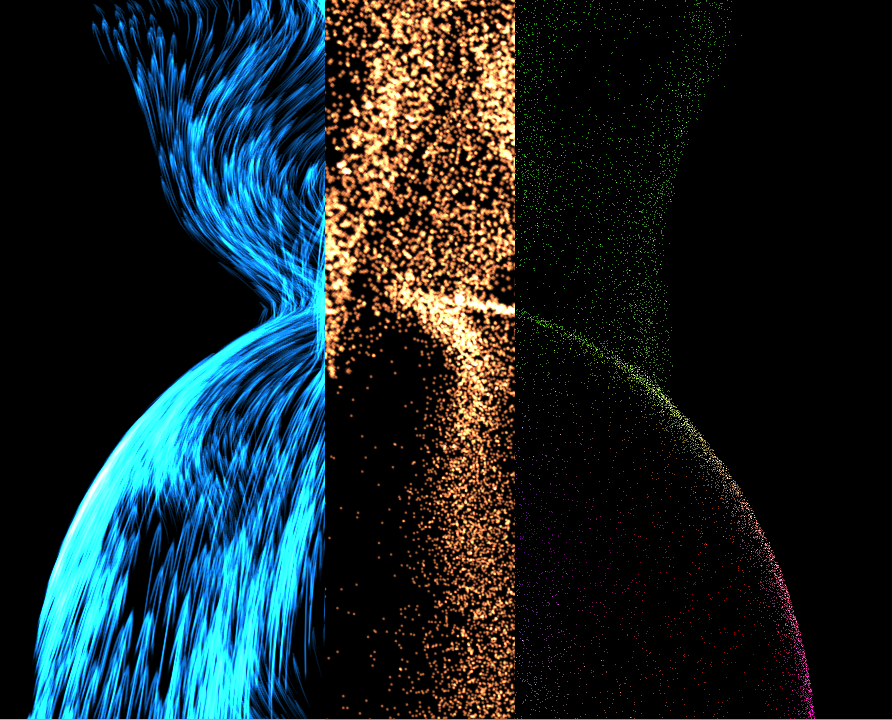
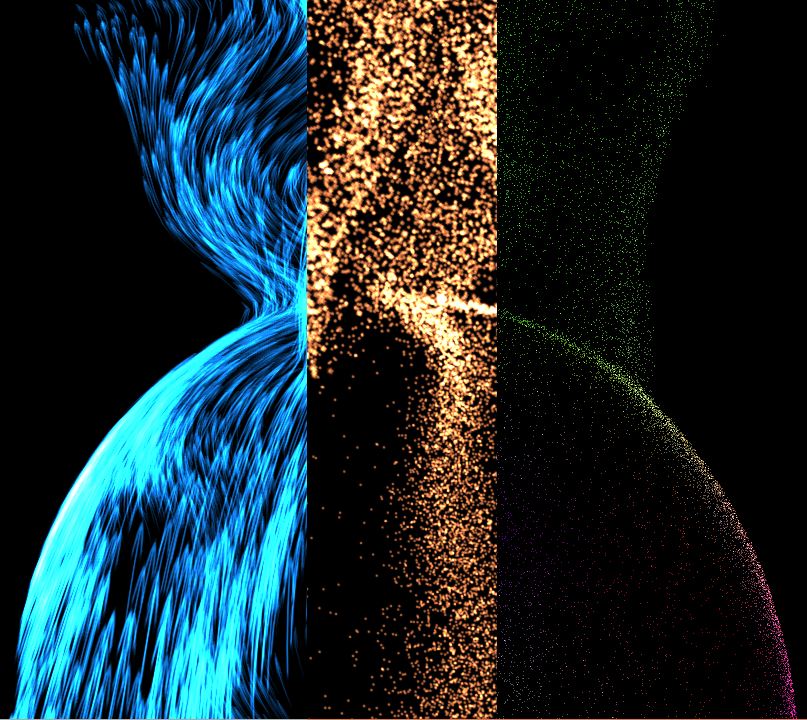
Made figures smaller and added more section.

diff --git a/docs/cnpf.tex b/docs/cnpf.tex
@@ -96,11 +96,27 @@ labelfont=bf,singlelinecheck=off,labelsep=space}
 
     I korthet kan man säga att vi producerar tre olika vektorfält som vi kombinerar. De första två fälten representerar turbulensen och den allmänna riktningen som partiklarna ska följa. Dessa kombineras genom att adderas. Efter detta modifieras resultatfältet så att partiklarna åker runt solida kroppar och slutligen applicerar vi en rotationsoperation (curl) vilket resulterar i ett divergensfritt vektorfält.
 
+\begin{figure}[H]
+\begin{minipage}[]{0.5\textwidth}
+\center
+\includegraphics[width=0.48\textwidth]{share/Background_downscale.png}
+\includegraphics[width=0.48\textwidth]{share/Noise_downscale.png}
+
+\vspace{0.1cm}
+
+\includegraphics[width=0.48\textwidth]{share/Alpha_downscale.png}
+\includegraphics[width=0.48\textwidth]{share/Curl_downscale.png}
+\end{minipage}
+    \caption{$xy$-plan genomskärningar av  a) \emph{turbulensfältet} b) \emph{bakgrundsfältet} c) \emph{rampfunktionen} d) \emph{riktningsfältet}. (i den ordningen som visas: vänster$\rightarrow$höger, upp$\rightarrow$ner)}
+\label{fig:curlnoise}
+\end{figure}
+
+\vspace{-0.3cm}
     \textbf{Turbulensfältet}
 
-    Turbulensfältet beräknas genom att sampla en procedurell brusfunktion. Vi valde att använda \textit{Simplex noise}\footnote{\url{https://github.com/stegu/perlin-noise/blob/master/src/simplexnoise1234.c}} vilket förklaras i närmare detalj av S. Gustavsson\cite{gustavson2005simplex}. Brusfunktionen samplas runt varje partikels position enligt följande funktion.
+    Turbulensfältet beräknas genom att sampla en procedurell brusfunktion. Vi valde att använda \textit{Simplex noise}\footnote{\url{https://github.com/stegu/perlin-noise/blob/master/src/simplexnoise1234.c}} vilket förklaras i detalj av \emph{Stefan Gustavsson}~\cite{gustavson2005simplex}. Brusfunktionen samplas runt varje partikels position enligt följande funktion.
     \begin{equation}
-   \vec{N}(\vec{x}) =  
+   \vec{N}(\vec{x}) =
         \begin{pmatrix}
         n((\vec{x} + \vec{\epsilon}_x)/L)
         \\
@@ -114,13 +130,6 @@ labelfont=bf,singlelinecheck=off,labelsep=space}
 0 & 8 & 0\\ 
 0 & 0 & 8
 \end{pmatrix}$. $n(\vec{x})$ är brusfunktionen som samplas för att producera turbulens i fältet. $\gamma$ representerar förhållande mellan brus och bakgrundsfält där $0$ är inget brus och därmed ingen turbulens medan $1$ är fullt brus utan något bakgrundsfält. $M_n$ är styrkan på bruset (fältriktningen är normerad så vi skalar upp det till vad vi vill ha). $L$ är längdskalan på bruset vilket i vårat fall är relativt stor (20-100) då vi vill ha långa övergångar i bruset.
-\begin{figure}[H]
-\center
-\begin{minipage}[]{0.3\textwidth}
-\includegraphics[width=\textwidth]{share/Noise_downscale.png}
-\caption{Genomskärning av turbulensfältet.}
-\end{minipage}
-\end{figure}
 
 \textbf{Bakgrundsriktningen}
 
@@ -134,13 +143,6 @@ $ \vec{D}(\vec{x})$ representerar fältriktningen i den angivna punkten och $M_f
 \end{equation}
 Där $\vec{p}$ är fältriktningen vi vill att partiklarna ska följa.
 
-\begin{figure}[H]
-\center
-\begin{minipage}[]{0.3\textwidth}
-\includegraphics[width=\textwidth]{share/Background_downscale.png}
-\caption{Genomskärning av bakgrundsfället.}
-\end{minipage}
-\end{figure}
 
 Turbulensfältet adderas med bakgrundsriktningen ($\vec{\psi} = \vec{N}(\vec{x}) + \vec{F}(\vec{x})$) för att sedan justeras så att partiklarna beaktar solida sfärer utplacerade i vektorfältet. 
 
@@ -157,13 +159,6 @@ ramp(r) = \left\{\begin{matrix}
 \end{matrix}\right.
 \end{equation}
 där $r$ är distansen $\vec{x}$ till närmaste sfär delat på distansen av sfären inflytande. 
-\begin{figure}[H]
-\center
-\begin{minipage}[]{0.3\textwidth}
-\includegraphics[width=\textwidth]{share/Alpha_downscale.png}
-\caption{Genomskärning av ramp funktionen mot en sfärisk solid kropp.}
-\end{minipage}
-\end{figure}
 
 Resultatet från rampfunktionen som $\alpha = | ramp(d(\vec{x})/d_0) |$ där $d_0$  är en arbiträr skalfaktor. Slutligen beräknar vi hur fältet runt sfärer se ut genom 
 \begin{equation}
@@ -200,14 +195,7 @@ Slutligen beräknas den slutgiltiga fältriktningen genom att applicera curl ope
 \vec{vx}_z - \vec{vy}_y
 \end{pmatrix} / 0.0002
 \end{equation}
-och normeras så att vi själva kan bestämma vad hastigheten för partiklarna ska vara. En genomskärning i $xy$-planet kan ses i nästa figur.
-\begin{figure}[H]
-\center
-\begin{minipage}[]{0.3\textwidth}
-\includegraphics[width=\textwidth]{share/Curl_downscale.png}
-\caption{Genomskärning av det slutgiltiga riktningsfället.}
-\end{minipage}
-\end{figure}
+och normeras så att vi själva kan bestämma vad hastigheten för partiklarna ska vara. En genomskärning i $xy$-planet av dessa fält kan ses i Figur~\ref{fig:curlnoise}.
 
 \subsection{Partikelrenderaren} \label{sec:partikelrenderaren}
 
@@ -244,9 +232,38 @@ För att enklare kunna visualisera riktningsfältet har vi implementerat \emph{`
 
 \subsection{Övriga funktioner}
 
+\clearpage
+
 \section{Resultat \& diskussion} \label{sec:results}
 
+\begin{figure}[H]
+\center
+\includegraphics[width=0.48\textwidth]{share/merged_shaders.png}
+    \caption{visualisering av \emph{partikelsystemet} med tre olika metoder: \emph{vektorfält-}, \emph{billboard-}, och \emph{punktvisualisering} som drivs av \emph{partikelrenderaren}. Scenariot innehåller en solid sfärisk kropp och med en längdskala på \(L\approx20\).}
+\label{fig:verysexy}
+\end{figure}
+
         \subsection{Problem samt lösningar}
+
+            \textbf{``Svarta hål'' av ej divergens-frihet}
+
+            % ...
+
+            \textbf{Interpoleringsfel av CPU Simplex}
+
+            % ...
+
+            \textbf{Konstigheter i ``geometry shader''}
+
+            % ...
+
+            \textbf{Utföra mjuka kamera övergångar}
+
+            % ...
+
+            \textbf{Hämska fulhack för ``callbacks'' }
+
+            % ...
 
         \subsection{Framtida förbättringar}
 
